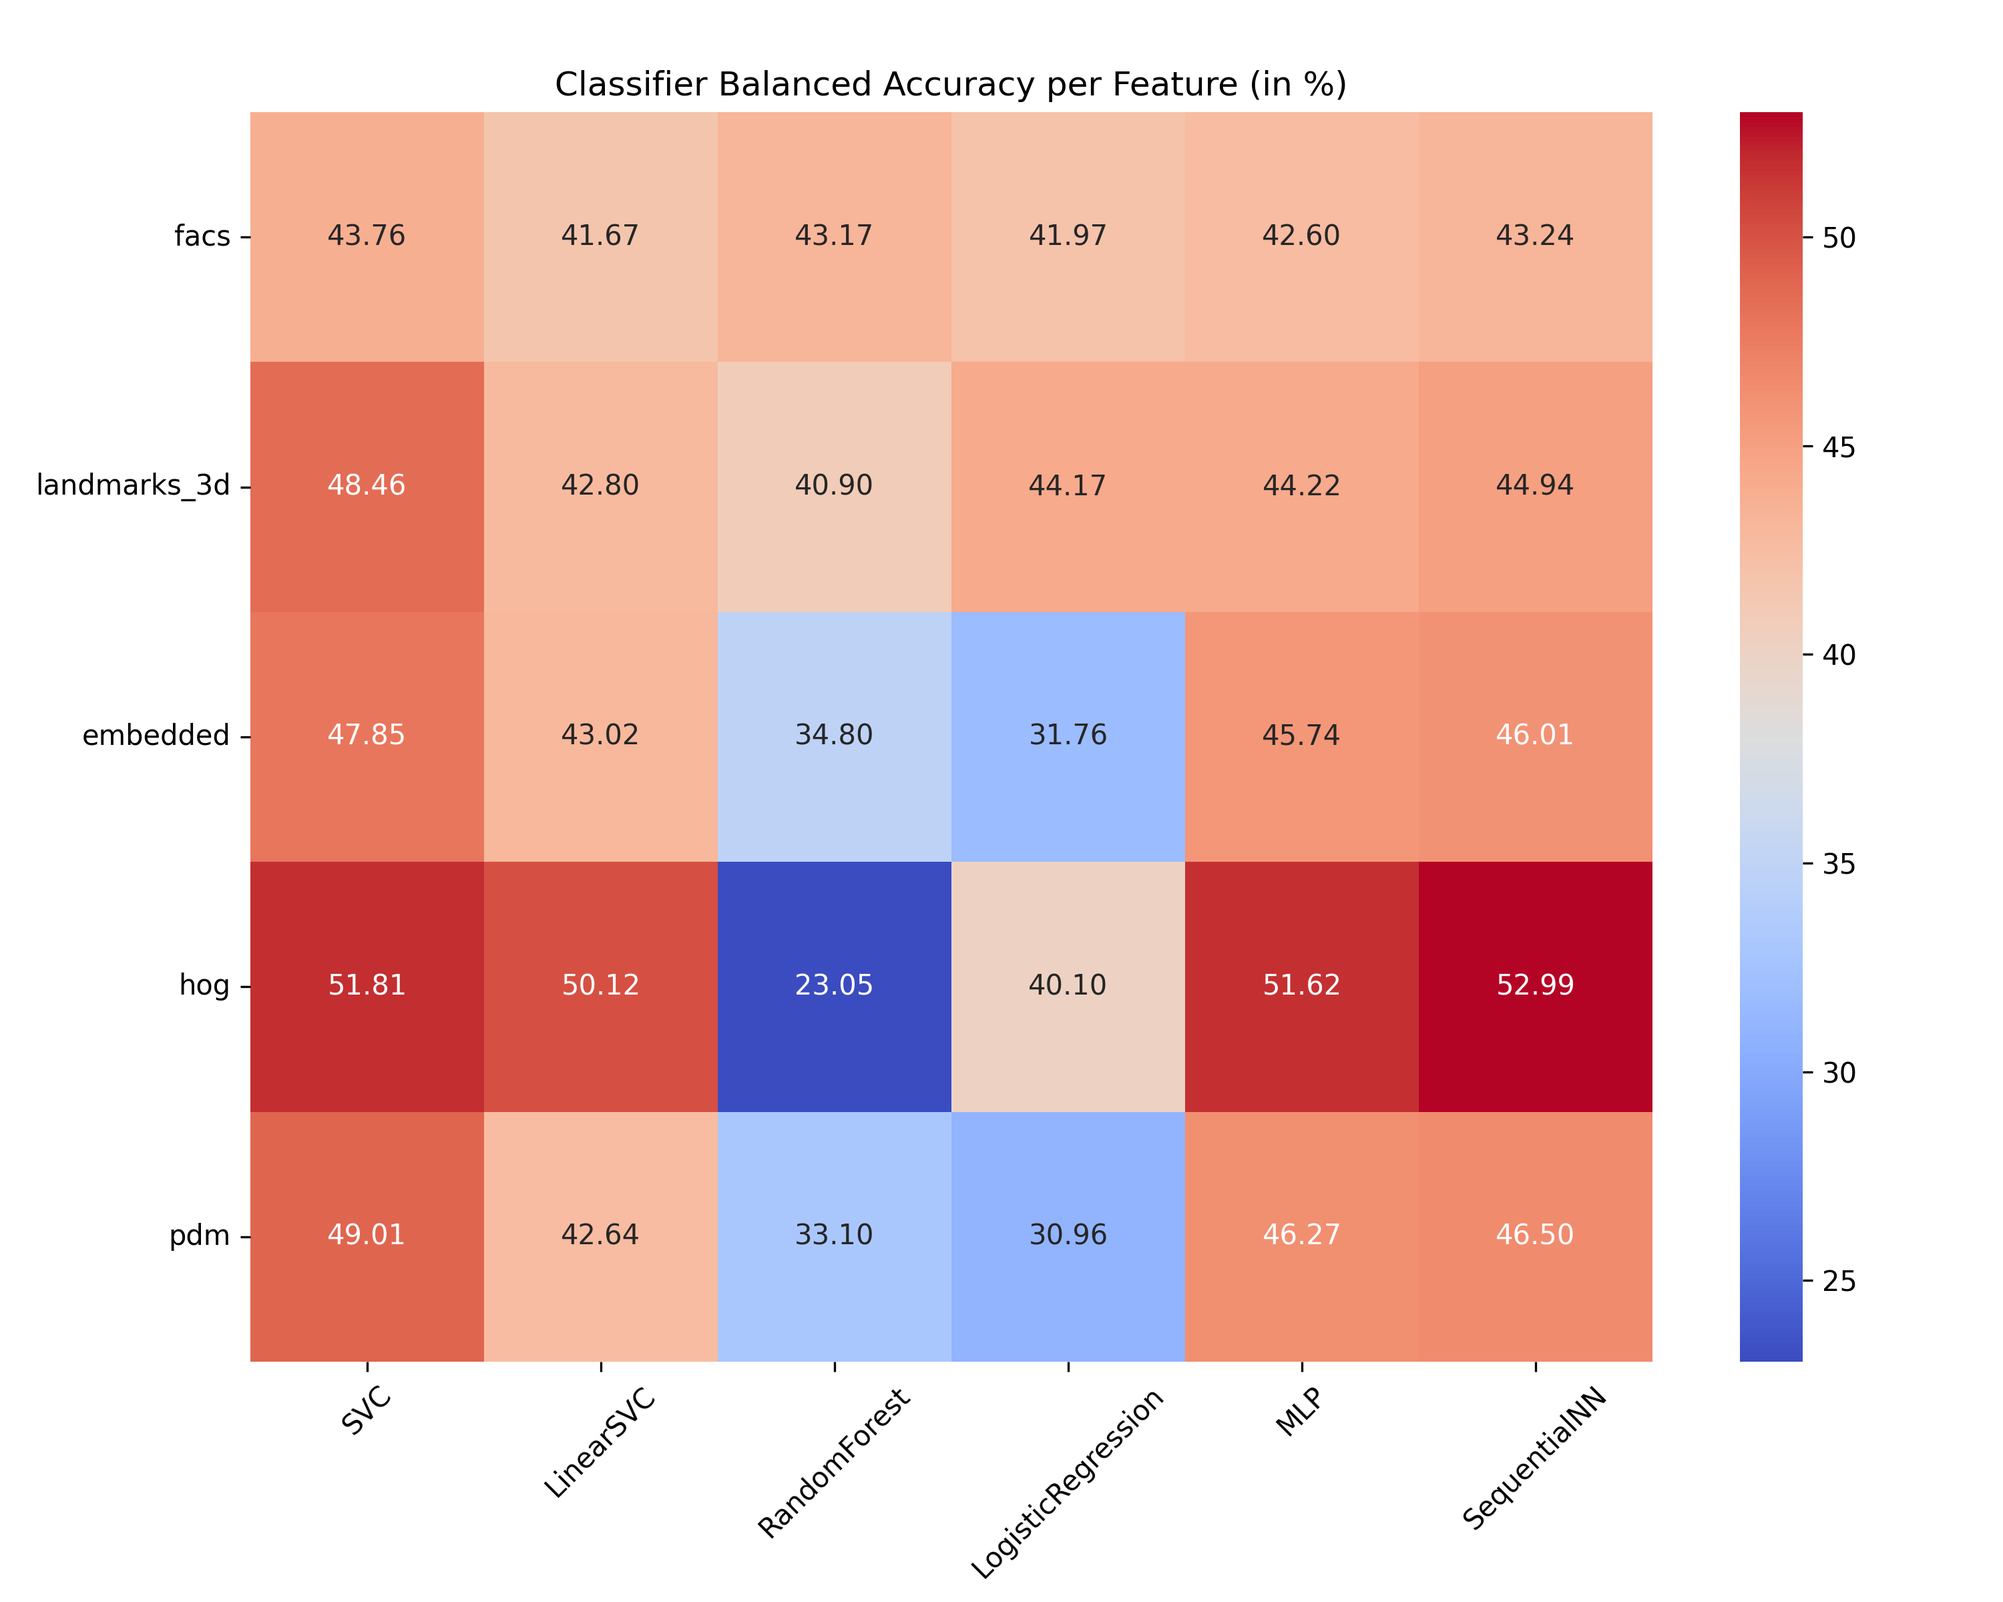
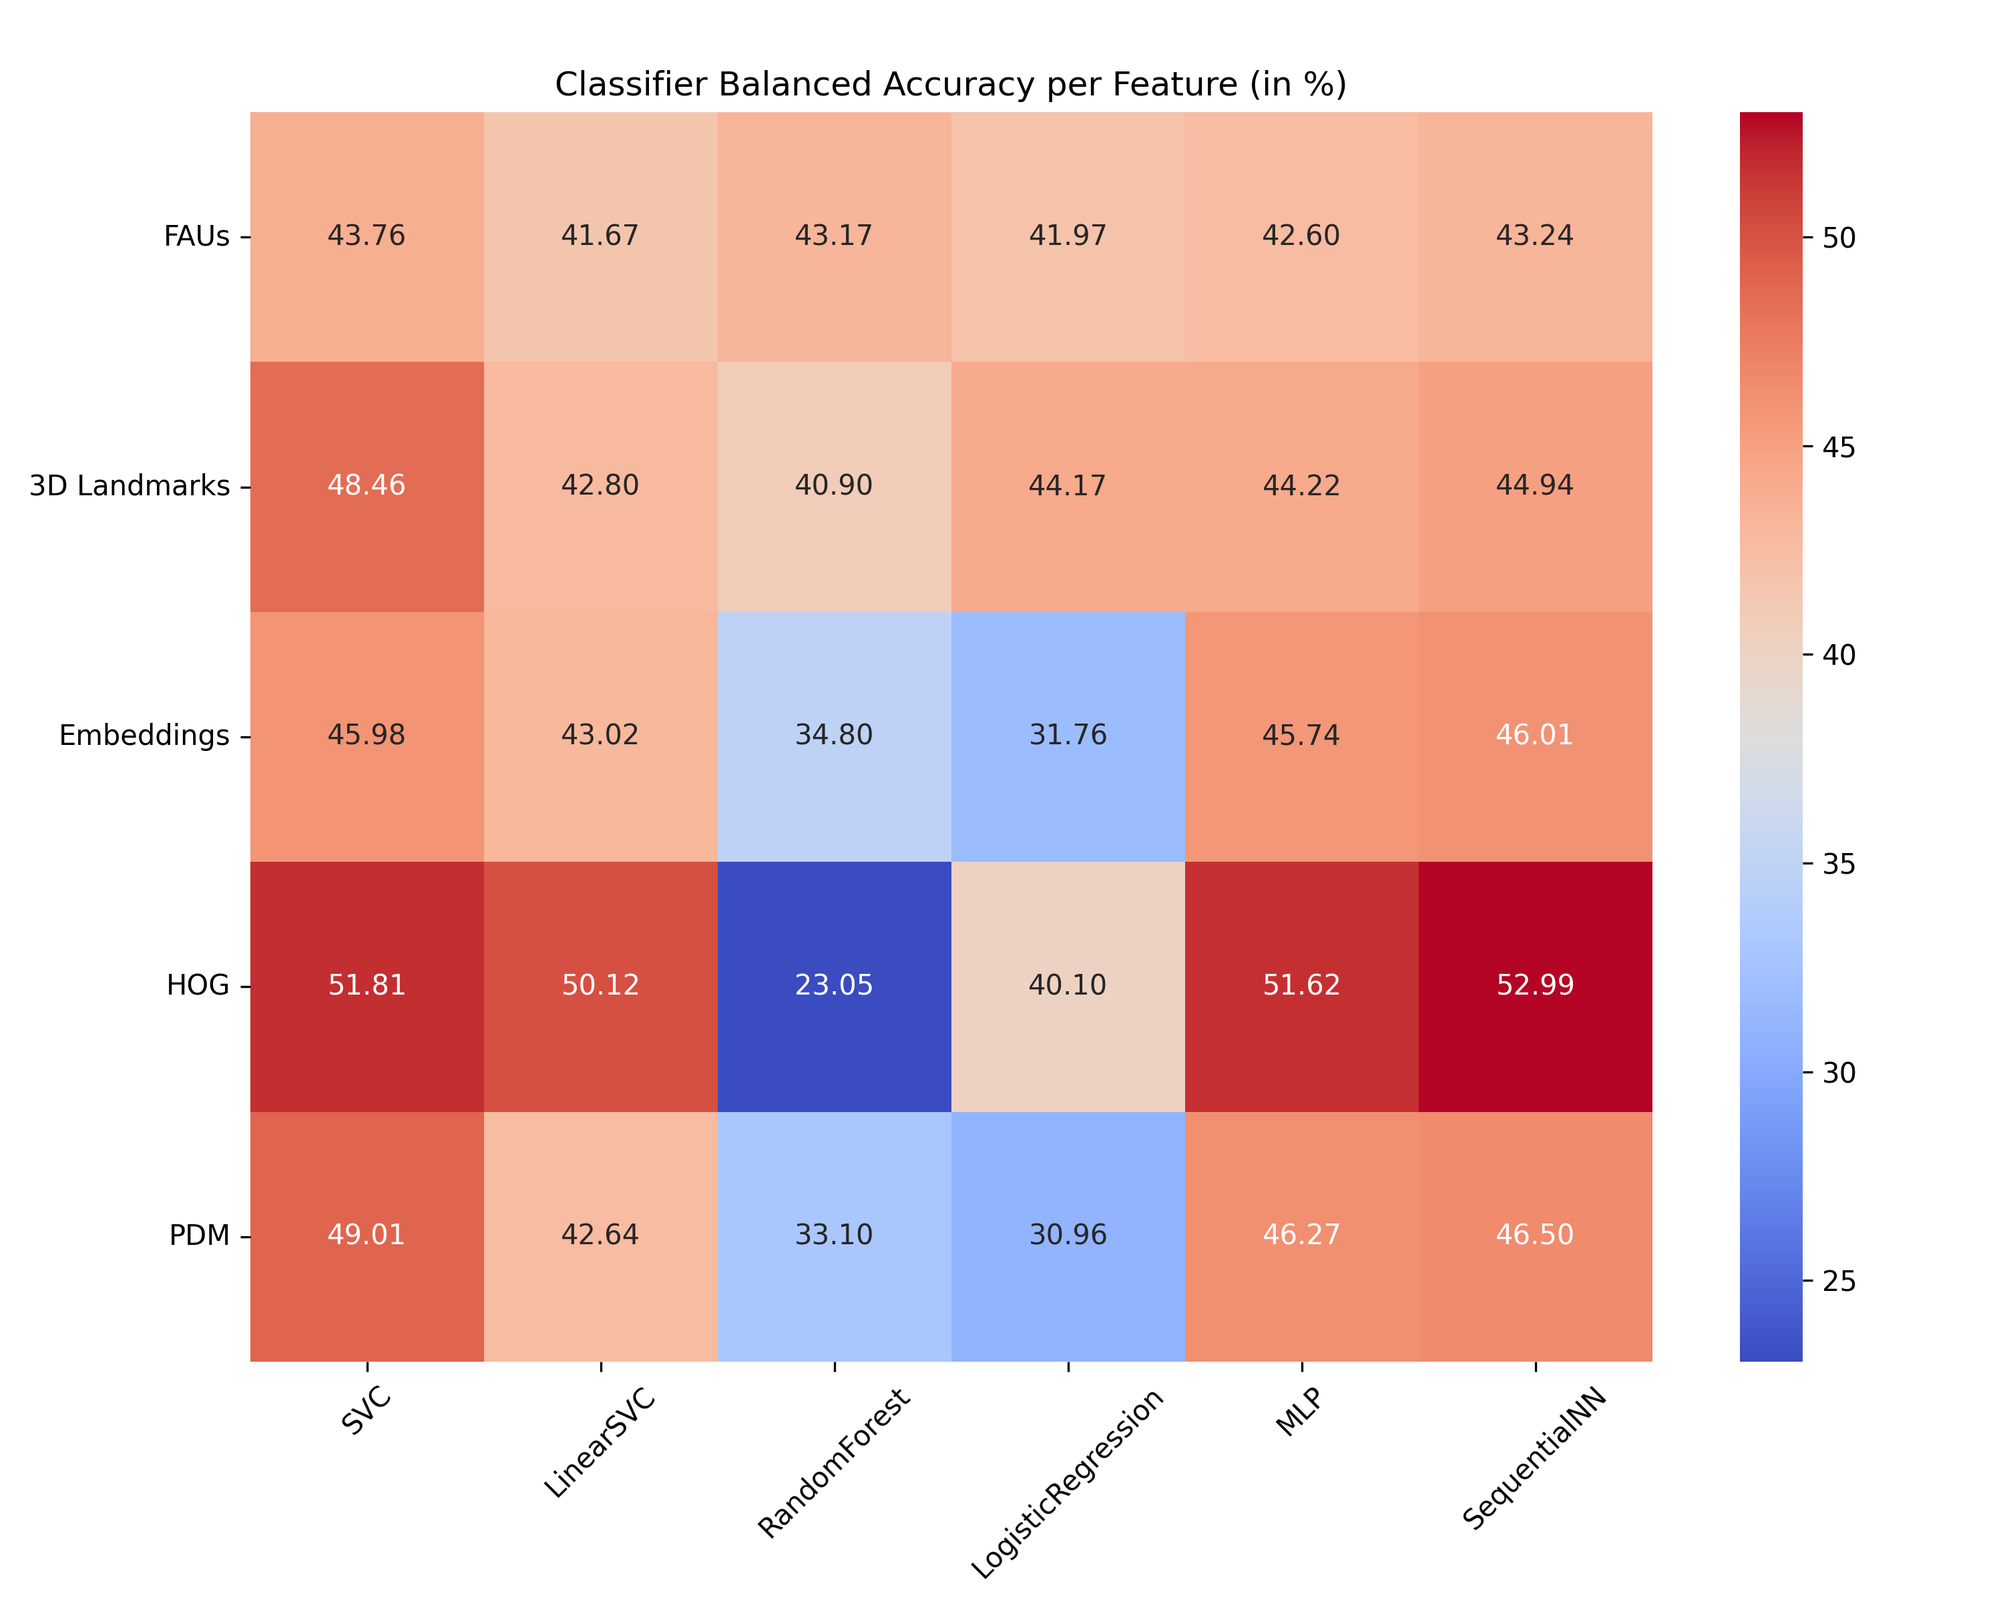
Improve hybrid sf experiment, prepare relative gain analysis, more visualizations

diff --git a/hybrid_fusion_experiment.py b/hybrid_fusion_experiment.py
@@ -1,21 +1,36 @@
+import logging
 import numpy as np
 import argparse
-from cuml.preprocessing import StandardScaler as CUMLStandardScaler
 from cuml.preprocessing import StandardScaler
 from sklearn.ensemble import RandomForestClassifier
 from sklearn.linear_model import LogisticRegression
+from cuml.linear_model import LogisticRegression as CULogisticRegression
+
 from sklearn.metrics import balanced_accuracy_score
 from sklearn.pipeline import Pipeline
 from src.model_training import SVC
 from sklearn.utils import compute_class_weight
 from classifier_vs_feature_experiment import feature_paths
-from src.model_training.proba_svc import _fit_proba
 from src.model_training.torch_neural_network import NeuralNetwork
+from src.model_training.torch_mlp import PyTorchMLPClassifier as MLP
 
 
 # Experiment where I use hybrid of different features and classifiers to basically optimize score fusion results
 
 if __name__ == '__main__':
+    parser = argparse.ArgumentParser(description='Hybrid Fusion Experiment')
+    parser.add_argument('--experiment-dir', type=str, help='Directory to checkpoint file',
+                        default='/local/scratch/ptanner/hybrid_fusion_experiments')
+    args = parser.parse_args()
+
+    logger = logging.getLogger(__name__)
+    logging.basicConfig(level=logging.INFO,
+                        format='%(asctime)s - %(message)s',
+                        handlers=[
+                            logging.FileHandler(f'{args.experiment_dir}/experiment.log'),
+                            logging.StreamHandler()
+                        ])
+
     y_train = np.load('y_train.npy')
     y_val = np.load('y_val.npy')
     y_test = np.load('y_test.npy')
@@ -26,10 +41,8 @@ if __name__ == '__main__':
 
     def prepare_facs():
         pipeline = Pipeline([
-            ('scaler', CUMLStandardScaler()),
-            ('random_forest',
-             RandomForestClassifier(n_estimators=400, max_depth=None, max_features=None, min_samples_split=10,
-                                    criterion='gini', class_weight='balanced'))
+            ('scaler', StandardScaler()),
+            ('log_reg', CULogisticRegression(C=10, class_weight='balanced'))
         ])
 
         pipeline.fit(np.load(feature_paths['facs']['train']).astype(np.float32), y_train)
@@ -39,11 +52,10 @@ if __name__ == '__main__':
 
     def prepare_lnd():
         #input_dim = np.load(feature_paths['landmarks_3d']['test']).shape[1]
-
         pipeline = Pipeline([
             ('scaler', StandardScaler()),
             #('nn', NeuralNetwork(batch_size=128, num_epochs=50, class_weight=class_weights, input_dim=input_dim))
-            ('svc', SVC(C=1, probability=True, kernel='rbf', class_weight='balanced'))
+            ('svc', SVC(C=10, probability=True, kernel='rbf', class_weight='balanced'))
         ])
 
         pipeline.fit(np.load(feature_paths['landmarks_3d']['train']).astype(np.float32), y_train)
@@ -54,7 +66,7 @@ if __name__ == '__main__':
         #input_dim = np.load(feature_paths['pdm']['test']).shape[1]
 
         pipeline = Pipeline([
-            ('scaler', CUMLStandardScaler()),
+            ('scaler', StandardScaler()),
             #('nn', NeuralNetwork(batch_size=128, num_epochs=50, class_weight=class_weights, input_dim=input_dim))
             ('svc', SVC(C=1, probability=True, kernel='rbf', class_weight='balanced'))
         ])
@@ -64,12 +76,13 @@ if __name__ == '__main__':
         return pipeline
 
     def prepare_emb():
-        #input_dim = np.load(feature_paths['embedded']['test']).shape[1]
+        input_dim = np.load(feature_paths['embedded']['test']).shape[1]
 
         pipeline = Pipeline([
             ('scaler', StandardScaler()),
-            ('svc', SVC(C=1, probability=True, kernel='rbf', class_weight='balanced'))
-            #('nn', NeuralNetwork(batch_size=128, num_epochs=30, class_weight=class_weights, input_dim=input_dim))
+            #('svc', SVC(C=1, probability=True, kernel='rbf', class_weight='balanced'))
+            ('mlp', MLP(hidden_size=256, batch_size=64, class_weight=class_weights, learning_rate=0.01, num_epochs=30,
+                       num_classes=8, input_size=input_dim))
         ])
 
         pipeline.fit(np.load(feature_paths['embedded']['train']).astype(np.float32), y_train)
@@ -89,19 +102,39 @@ if __name__ == '__main__':
         return pipeline
 
 
-    parser = argparse.ArgumentParser(description='Hybrid Fusion Experiment')
-    parser.add_argument('--experiment-dir', type=str, help='Directory to checkpoint file',
-                        default='/local/scratch/ptanner/hybrid_fusion_experiments')
-    args = parser.parse_args()
 
     probabilities_val = {}
     probabilities_test = {}
 
+    logger.info("Starting Hybrid Fusion Experiment")
+    logger.info("Fitting FACS")
     facs_pipeline = prepare_facs()
+    logger.info("Fitting Landmarks 3D")
     lnd_pipeline = prepare_lnd()
+    logger.info("Fitting PDM")
     pdm_pipeline = prepare_pdm()
+    logger.info("Fitting Embedded")
     emb_pipeline = prepare_emb()
+    logger.info("Fitting HOG")
     hog_pipeline = prepare_hog()
+
+    # Get individual accuracies
+    balanced_accuracy = balanced_accuracy_score(y_val, facs_pipeline.predict(np.load(feature_paths['facs']['val']).astype(np.float32)))
+    logger.info(f"Balanced Accuracy of FACS classifier (Validation Set): {balanced_accuracy}")
+
+    balanced_accuracy = balanced_accuracy_score(y_val, lnd_pipeline.predict(np.load(feature_paths['landmarks_3d']['val']).astype(np.float32)))
+    logger.info(f"Balanced Accuracy of Landmarks 3D classifier (Validation Set): {balanced_accuracy}")
+
+    balanced_accuracy = balanced_accuracy_score(y_val, pdm_pipeline.predict(np.load(feature_paths['pdm']['val']).astype(np.float32)))
+    logger.info(f"Balanced Accuracy of PDM classifier (Validation Set): {balanced_accuracy}")
+
+    balanced_accuracy = balanced_accuracy_score(y_val, emb_pipeline.predict(np.load(feature_paths['embedded']['val']).astype(np.float32)))
+    logger.info(f"Balanced Accuracy of Embedded classifier (Validation Set): {balanced_accuracy}")
+
+    balanced_accuracy = balanced_accuracy_score(y_val, hog_pipeline.predict(np.load(feature_paths['hog']['val']).astype(np.float32)))
+    logger.info(f"Balanced Accuracy of HOG classifier (Validation Set): {balanced_accuracy}")
+
+
 
     probabilities_val['facs'] = facs_pipeline.predict_proba(np.load(feature_paths['facs']['val']).astype(np.float32))
     probabilities_val['landmarks_3d'] = lnd_pipeline.predict_proba(np.load(feature_paths['landmarks_3d']['val']).astype(np.float32))
@@ -115,11 +148,16 @@ if __name__ == '__main__':
     probabilities_test['embedded'] = emb_pipeline.predict_proba(np.load(feature_paths['embedded']['test']).astype(np.float32))
     probabilities_test['hog'] = hog_pipeline.predict_proba(np.load(feature_paths['hog']['test']).astype(np.float32))
 
+    np.save(f'{args.experiment_dir}/probabilities_val.npy', probabilities_val)
+    np.save(f'{args.experiment_dir}/probabilities_test.npy', probabilities_test)
+
+    logger.info("Probabilities saved")
+
     # Stacking
     X_stack_val = np.concatenate([probabilities_val[model] for model in probabilities_val], axis=1)
 
     stacking_pipeline = Pipeline([
-
+        ('scaler', StandardScaler()),
         ('log_reg', LogisticRegression(C=1, class_weight='balanced'))
     ])
 
@@ -127,15 +165,15 @@ if __name__ == '__main__':
 
     balanced_accuracy = balanced_accuracy_score(y_val, stacking_pipeline.predict(X_stack_val))
 
-    print(f"Balanced Accuracy of stacking classifier (Validation Set): {balanced_accuracy}")
+    logger.info(f"Balanced Accuracy of stacking classifier (Validation Set): {balanced_accuracy}")
 
     X_stack_test = np.concatenate([probabilities_test[model] for model in probabilities_test], axis=1)
 
     balanced_accuracy = balanced_accuracy_score(y_test, stacking_pipeline.predict(X_stack_test))
 
-    print(f"Balanced Accuracy of stacking classifier (Test Set): {balanced_accuracy}")
+    logger.info(f"Balanced Accuracy of stacking classifier (Test Set): {balanced_accuracy}")
 
-    print("Finished Hybrid Fusion Experiment")
+    logger.info("Experiment Finished")
 
 
 

diff --git a/relative_gain_experiment.py b/relative_gain_experiment.py
@@ -1,0 +1,60 @@
+import argparse
+import logging
+import joblib
+from cuml.preprocessing import StandardScaler
+import numpy as np
+from sklearn.linear_model import LogisticRegression
+from sklearn.metrics import balanced_accuracy_score
+from sklearn.pipeline import Pipeline
+
+# Look how the relative gain in score fusion (stacking) changes with the number of classifiers/feature types
+
+if __name__ == '__main__':
+    parser = argparse.ArgumentParser(
+        description='Training one classifier with all feature types')
+    parser.add_argument('--experiment-dir', type=str, help='Directory to checkpoint file',
+                        default='/local/scratch/ptanner/relative_gain_experiments')
+
+    args = parser.parse_args()
+
+    logger = logging.getLogger(__name__)
+    logging.basicConfig(level=logging.INFO,
+                        format='%(asctime)s - %(message)s',
+                        handlers=[
+                            logging.FileHandler(f'{args.experiment_dir}/experiment.log'),
+                            logging.StreamHandler()
+                        ])
+    logger.info("Starting Experiment")
+
+    # Load the probabilities from the hybrid fusion experiment
+    probabilities_val = np.load('/local/scratch/ptanner/hybrid_fusion_experiments/probabilities_val.npy', allow_pickle=True).item()
+    probabilities_test = np.load('/local/scratch/ptanner/hybrid_fusion_experiments/probabilities_test.npy', allow_pickle=True).item()
+    y_val = np.load('y_val.npy')
+    y_test = np.load('y_test.npy')
+
+
+    stacking_pipeline = Pipeline([
+        ('scaler', StandardScaler()),
+        ('log_reg', LogisticRegression(C=1, class_weight='balanced'))
+    ])
+
+    # Start with hog probabilities, then pdm, then landmarks_3d, then embedded and finally facs
+    models = ['hog', 'pdm', 'landmarks_3d', 'embedded', 'facs']
+    for i in range(1, 6):
+        logger.info(f"Training stacking classifier with {i} models")
+        X_stack_val = np.concatenate([probabilities_val[model] for model in list(probabilities_val.keys())[:i]], axis=1)
+        X_stack_test = np.concatenate([probabilities_test[model] for model in list(probabilities_test.keys())[:i]], axis=1)
+
+        stacking_pipeline.fit(X_stack_val, y_val)
+
+        balanced_accuracy = balanced_accuracy_score(y_val, stacking_pipeline.predict(X_stack_val))
+        logger.info(f"Balanced Accuracy of stacking classifier (Validation Set) with {i} models: {balanced_accuracy}")
+
+        balanced_accuracy = balanced_accuracy_score(y_test, stacking_pipeline.predict(X_stack_test))
+        logger.info(f"Balanced Accuracy of stacking classifier (Test Set) with {i} models: {balanced_accuracy}")
+
+        # Save the model
+        joblib.dump(stacking_pipeline, f'{args.experiment_dir}/stacking_{i}.joblib')
+
+
+    logger.info("Experiment Finished")

diff --git a/src/visualizations/score_fusion_comparison.py b/src/visualizations/score_fusion_comparison.py
@@ -4,6 +4,9 @@
 # This code is to visualize it
 
 
+import matplotlib.pyplot as plt
+import numpy as np
+
 # Without normal SVC because it can't be used for probability stacking
 feature_data = {
     'FACS': {
@@ -101,11 +104,68 @@ classifier_data = {
     },
     'SVC': {
         'HOG': 0.5099321335489762564,
-        'Landmarks': None,
-        'PDM': None,
-        'FACS': None,
-        'Embedded': None,
+        'Landmarks':  0.4732473249614243,
+        'PDM': 0.4764234030931595,
+        'FACS': 0.4394365847036077,
+        'Embedded': 0.4597618607618611,
         'Stacking': 0.5099321335489762564,
 
     },
 }
+
+
+def plot_grouped_bar_chart(data, title, x_label):
+    # Prepare data
+    labels = list(data.keys())
+    sub_labels = [key for key in data[labels[0]].keys() if key != 'Stacking']
+    stacking_values = [data[label]['Stacking'] * 100 for label in labels]
+    other_values = np.array([[data[label][sub_label] * 100 for sub_label in sub_labels] for label in labels])
+
+    x = np.arange(len(labels))  # label locations
+    stacking_width = 0.2  # width of the Stacking bars
+    other_width = 0.1  # width of the other bars
+    gap = 0.05  # gap between the Stacking bar and the other bars
+
+    fig, ax = plt.subplots(figsize=(14, 7))
+
+    # Color palette
+    colors = plt.get_cmap('tab20c')
+
+    # Plot Stacking bars
+    ax.bar(x, stacking_values, stacking_width, label='Stacking', color=colors(0))
+
+    # Plot other bars
+    for i in range(len(sub_labels)):
+        ax.bar(x + stacking_width / 2 + gap + other_width * i, other_values[:, i], other_width, label=sub_labels[i],
+               color=colors(i + 1))
+
+    # Add some text for labels, title and custom x-axis tick labels, etc.
+    ax.set_xlabel(x_label, fontsize=16)
+    ax.set_ylabel('Balanced Accuracy (%)', fontsize=16)
+    ax.set_title(title, fontsize=18)
+    ax.set_xticks(x + stacking_width / 2 + gap + other_width * ((len(sub_labels) - 1) / 2))
+    ax.set_xticklabels(labels)
+    ax.legend()
+
+    # Rotate x labels
+    plt.xticks(rotation=45)
+
+    # legend outside
+    ax.legend(bbox_to_anchor=(1.05, 1), loc='upper left', borderaxespad=0.)
+
+
+    # Adjust space below plots and overall layout
+    plt.subplots_adjust(bottom=0.3, right=0.8)
+    plt.ylim(0, 60)
+
+    # Save the plot
+    plt.savefig(f'{title}_stacking_comparison.png')
+
+    plt.show()
+
+
+# Plot for feature data
+plot_grouped_bar_chart(feature_data, 'Stacking Accuracy per Feature', 'Feature')
+
+# Plot for classifier data
+plot_grouped_bar_chart(classifier_data, 'Stacking Accuracy per Classifier', 'Classifier')

diff --git a/src/visualizations/classifier_performance_per_feature.py b/src/visualizations/classifier_performance_per_feature.py
@@ -81,6 +81,15 @@ data = {
     'SequentialNN': SequentialNN
 }
 
+# Rename the feature names to be more readable
+feature_names = {
+    'facs': 'FAUs',
+    'landmarks_3d': '3D Landmarks',
+    'embedded': 'Embeddings',
+    'hog': 'HOG',
+    'pdm': 'PDM'
+}
+
 df = pd.DataFrame(data)
 
 # Convert to percentage
@@ -89,6 +98,9 @@ df = df * 100
 # Plot
 plt.figure(figsize=(10, 8))
 sns.heatmap(df, annot=True, cmap='coolwarm', fmt=".2f")
+
+# Rename y labels to readable
+plt.yticks([0.5, 1.5, 2.5, 3.5, 4.5], [feature_names[feature] for feature in df.index], rotation=0)
 
 # Make the plot readable
 plt.xticks(rotation=45)

diff --git a/src/model_training/torch_neural_network.py b/src/model_training/torch_neural_network.py
@@ -63,7 +63,7 @@ class NeuralNetwork(nn.Module):
                 loss = self.criterion(outputs, labels)
                 loss.backward()
                 self.optimizer.step()
-            print(f'Epoch {epoch + 1}/{self.num_epochs}, Loss: {loss.item()}')
+            #print(f'Epoch {epoch + 1}/{self.num_epochs}, Loss: {loss.item()}')
 
     def predict(self, X):
         self.eval()
